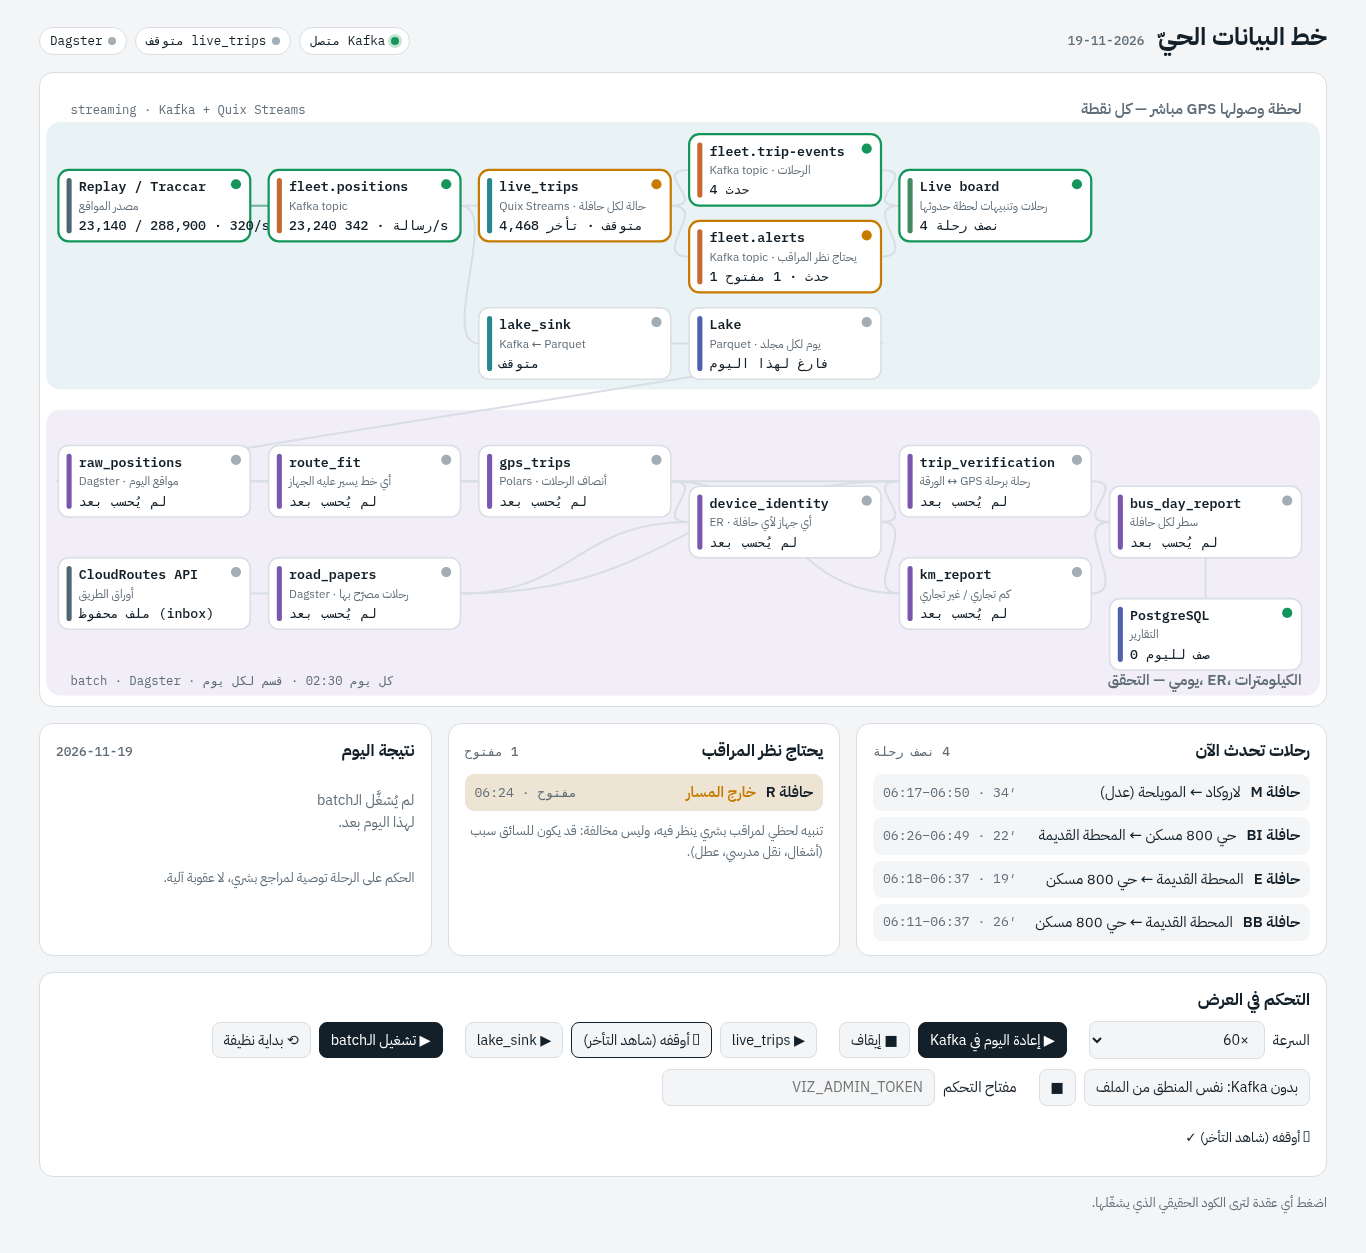
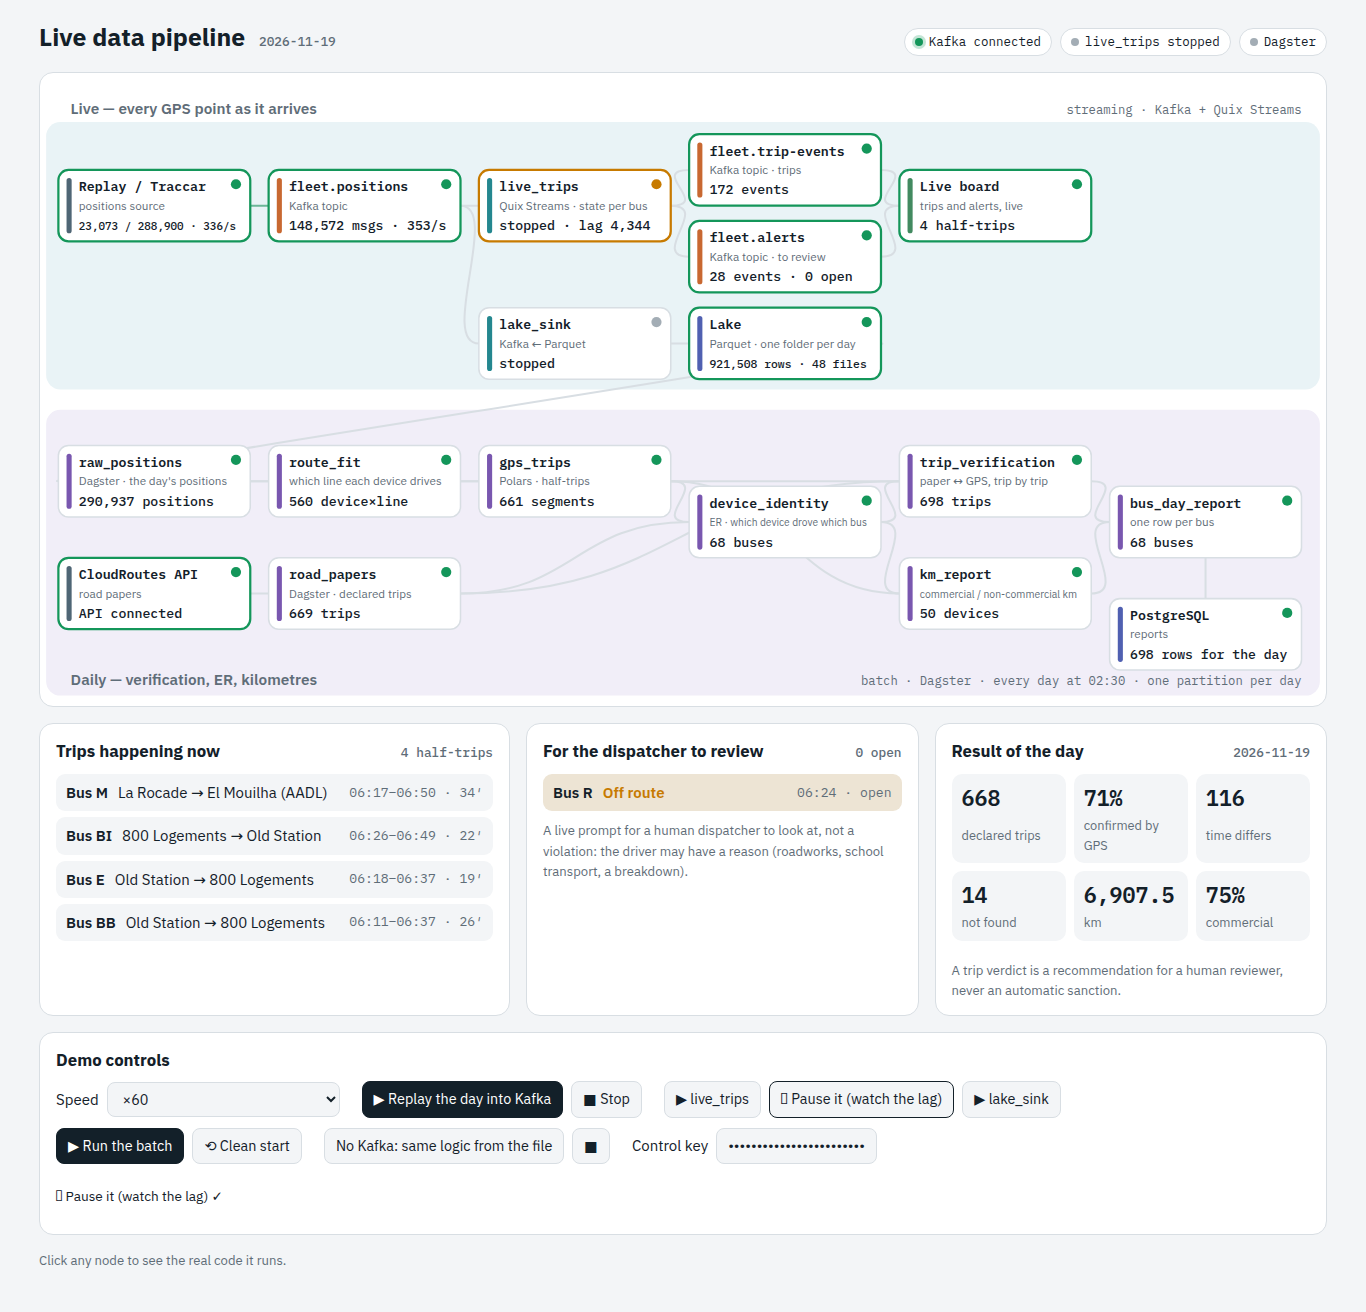
lake_sink: commit the offsets it wrote; step 4 checks on the VPS
- stream/lake_sink.py: commit the exact offsets of the positions just written. After the topics were
  recreated (reset_demo --kafka) the group's old offsets were past the end, the consumer reset to the
  beginning and commit() failed with _NO_OFFSET: the container restarted every minute and wrote the
  same positions again (921,508 lake rows for a 288,900-position day). Now: 0 restarts after a reset
  and a replay; lake repeats = the source file's own (1.2 %)
- inside the running stack: bench_live --mode kafka 4,820 positions/s (x120 needs ~740/s);
  test_kafka_e2e passed; test_viz_browser passed against 127.0.0.1:8000, stack peak 1,137 MiB
- docs/screens: the browser run, English UI

Claude-Session: https://claude.ai/code/session_01RmHBB9a8Ti6RuL5Dti77tX

diff --git a/stream/lake_sink.py b/stream/lake_sink.py
@@ -14,7 +14,7 @@ import time
 from collections import defaultdict
 
 import polars as pl
-from confluent_kafka import Consumer
+from confluent_kafka import Consumer, TopicPartition
 
 from stream.common import BROKER, DATA, POSITIONS, local_time
 from stream.heartbeat import Heartbeat
@@ -26,13 +26,14 @@ def main():
     c = Consumer({"bootstrap.servers": BROKER, "group.id": "lake-sink", "enable.auto.commit": False,
                   "auto.offset.reset": "earliest"})
     c.subscribe([POSITIONS])
-    buf, last = [], time.monotonic()
+    buf, last, upto = [], time.monotonic(), {}      # upto: partition -> next offset to read, for what buf holds
     hb, written, files = Heartbeat("lake_sink"), 0, 0
     try:
         while True:
             m = c.poll(1.0)
             if m is not None and not m.error():
                 buf.append(json.loads(m.value()))
+                upto[m.partition()] = m.offset() + 1
             hb.beat(buffered=len(buf), written=written, files=files)
             if buf and (len(buf) >= FLUSH_N or time.monotonic() - last >= FLUSH_S):
                 by_day = defaultdict(list)
@@ -42,11 +43,14 @@ def main():
                     d = DATA / "lake" / "positions" / f"date={day}"
                     d.mkdir(parents=True, exist_ok=True)
                     pl.DataFrame(rows).write_parquet(d / f"part-{time.time_ns()}.parquet")
-                c.commit(asynchronous=False)
+                # commit exactly what was written. A plain commit() uses the consumer's offset store, which is
+                # empty after an offset reset (topics recreated by reset_demo --kafka): it failed with
+                # _NO_OFFSET, the container restarted and wrote the same positions again, in a loop.
+                c.commit(offsets=[TopicPartition(POSITIONS, p, o) for p, o in upto.items()], asynchronous=False)
                 written += len(buf)
                 files += len(by_day)
                 print(f"wrote {len(buf)} positions ({', '.join(f'{k}: {len(v)}' for k, v in by_day.items())})", flush=True)
-                buf, last = [], time.monotonic()
+                buf, last, upto = [], time.monotonic(), {}
     finally:
         c.close()
 

diff --git a/README.md b/README.md
@@ -78,6 +78,7 @@ of where buses wait between rounds, seeded from 19 Nov).
 
 Nothing counts before the device first reaches a terminal of its line, nor at its overnight parking place.
 `python -m tools.bench_live --mode file|kafka` measures how many positions per second `live_trips` handles.
+On the VPS (4 vCPU, inside `fleet-viz`): 4,820 positions/s through Kafka; ×120 needs about 740/s at the morning peak.
 `silent` runs on the stream's own clock (latest fix time), one clock per Kafka partition, so a replay behaves
 like real time. Alerts are for the dispatcher to look at ("For the dispatcher to review"), never a sanction.
 `docs/alerts-2026-11-19.md` lists every alert of 19 Nov and explains the rules against that day.
